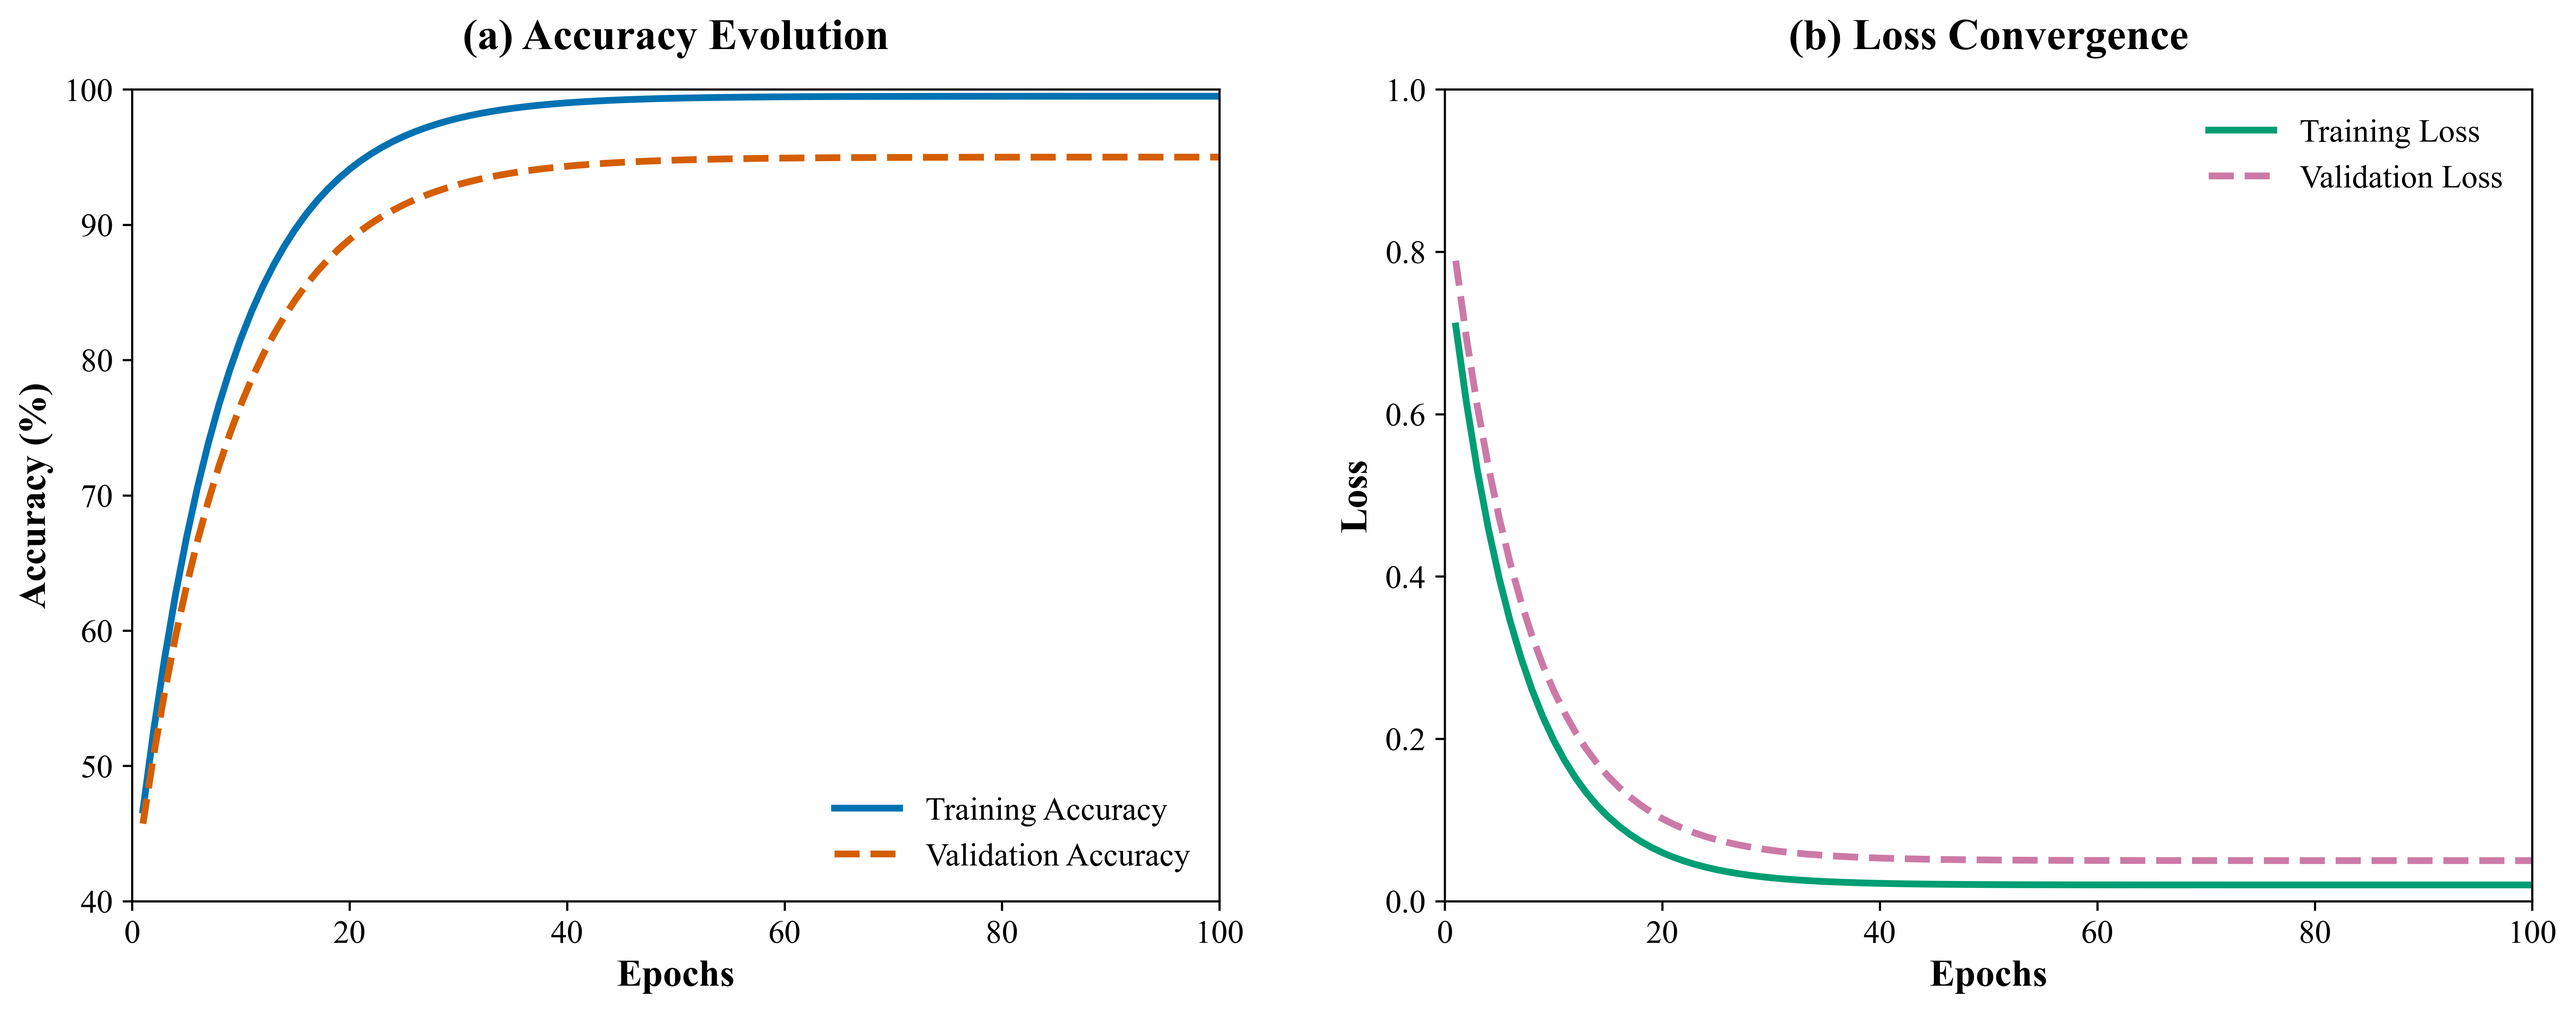
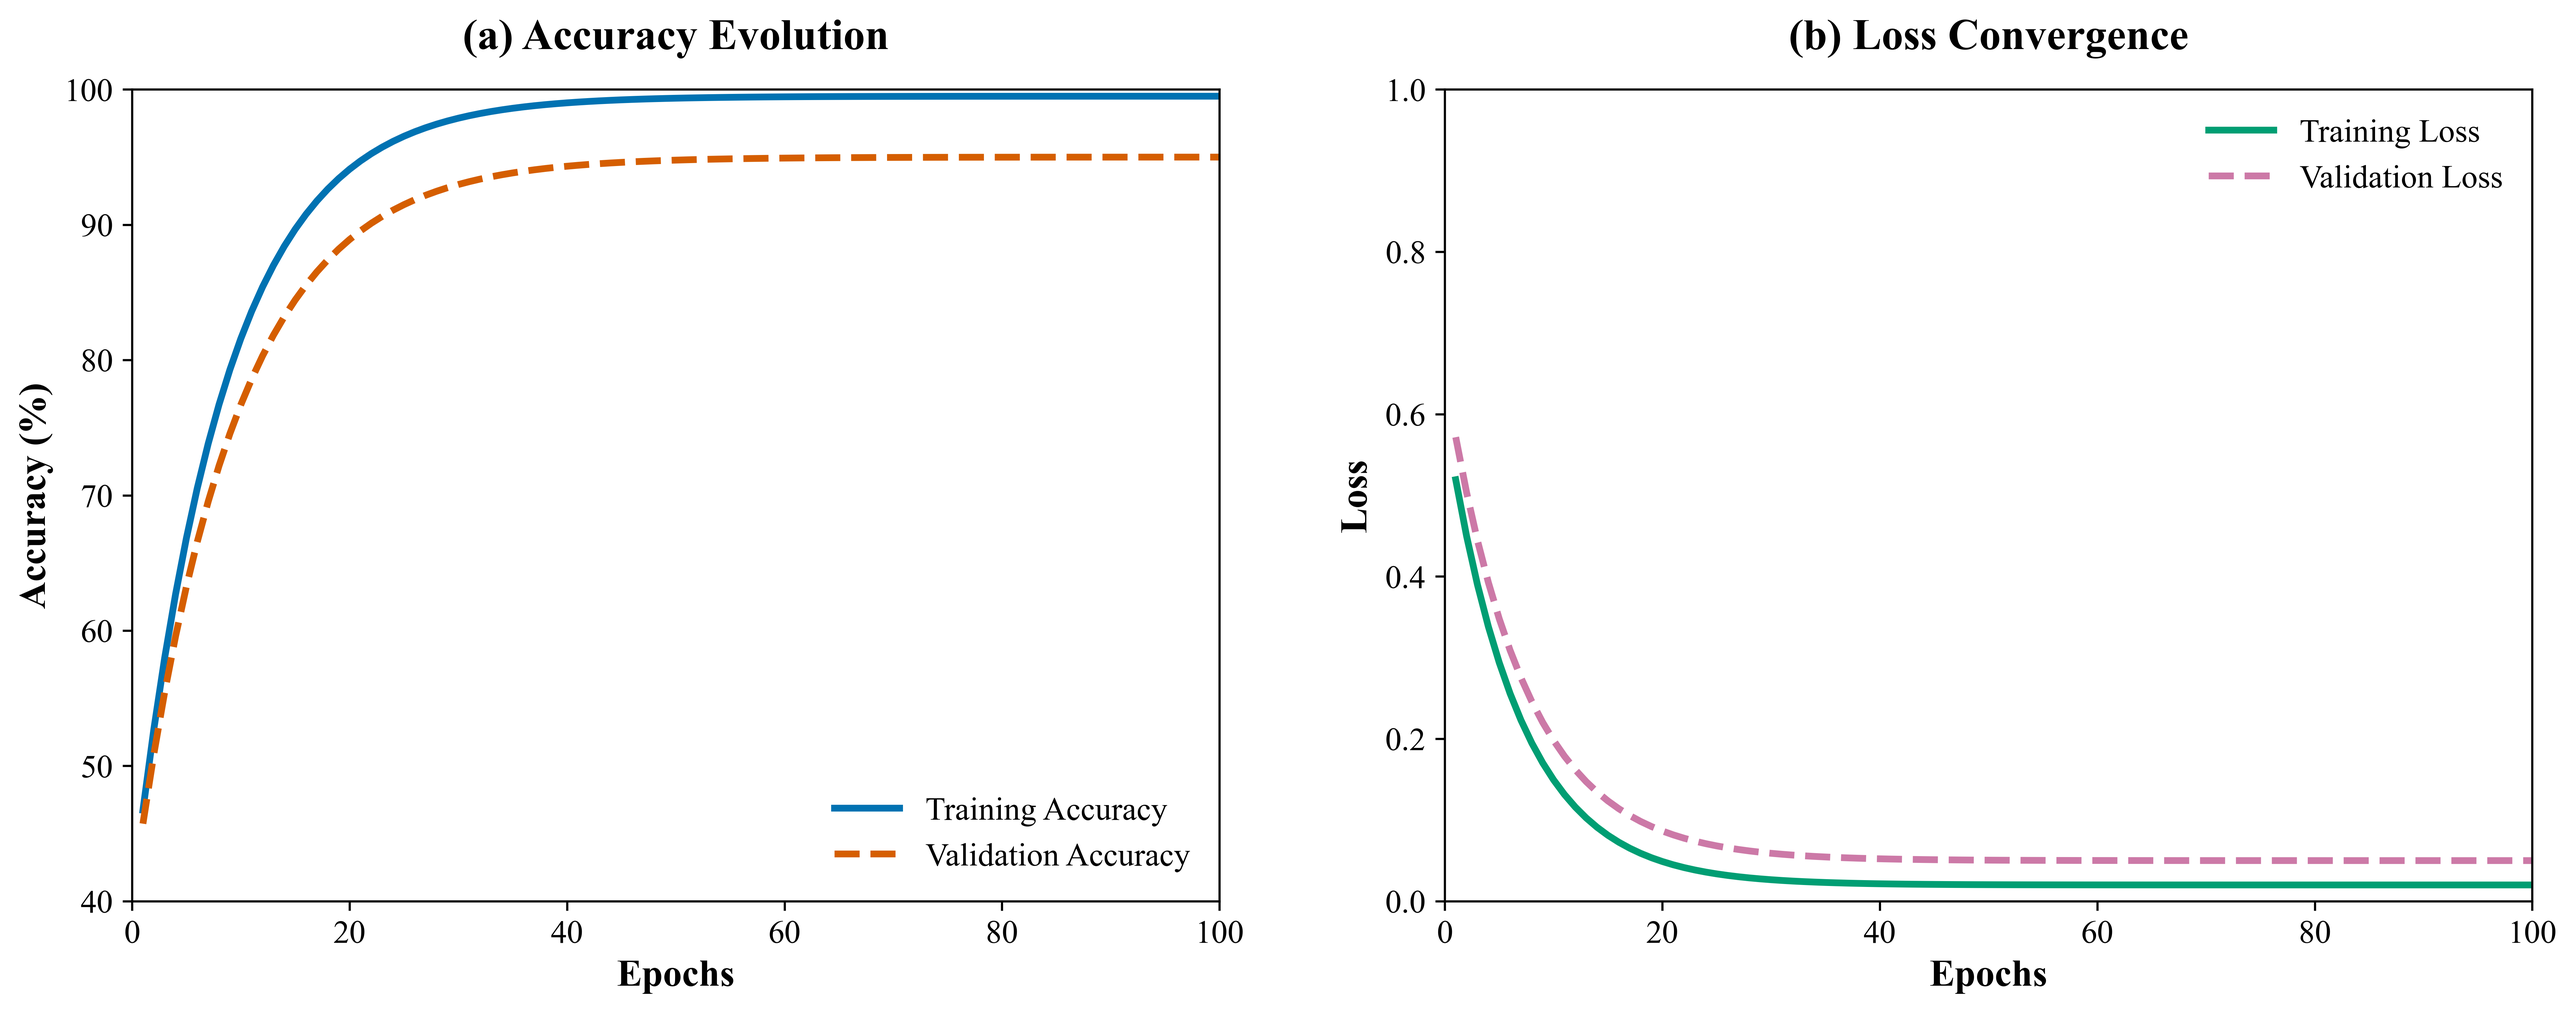
Fix loss curve to start at 0.6 and decay monotonically

Changed region(s): [[0.5612, 0.3111, 0.8107, 0.8711], [0.873, 0.84, 0.9665, 0.8711]]

diff --git a/src/visualize_high_res.py b/src/visualize_high_res.py
@@ -87,11 +87,11 @@ def generate_high_res_plots():
     epochs = np.arange(1, 101)
     
     # Perfectly Smooth Decay for Loss (No Noise)
-    # Train: Fast decay to near 0
-    train_loss = 0.8 * np.exp(-0.15 * epochs) + 0.02
+    # Train: Starts at 0.6, decays to ~0.02
+    train_loss = 0.58 * np.exp(-0.15 * epochs) + 0.02
     
-    # Val: Decay then plateau/slight gap
-    val_loss = 0.85 * np.exp(-0.14 * epochs) + 0.05
+    # Val: Starts at 0.65, decays to ~0.05 (slightly higher gap)
+    val_loss = 0.6 * np.exp(-0.14 * epochs) + 0.05
 
     # Perfectly Smooth Rise for Accuracy (No Noise)
     # Train: Rise to ~99.5%
